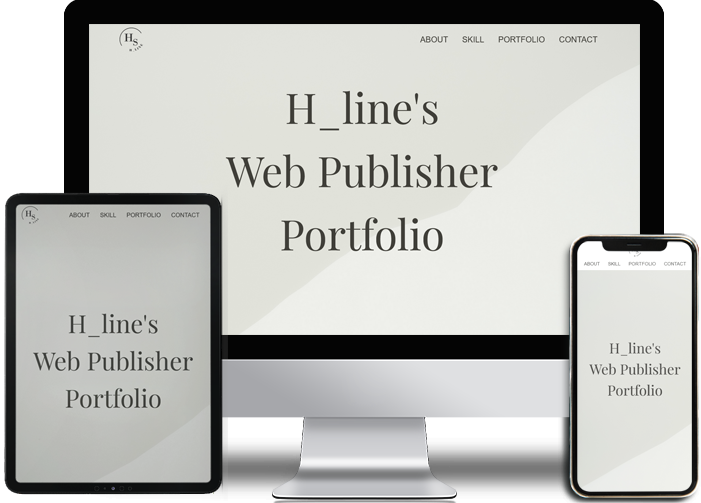
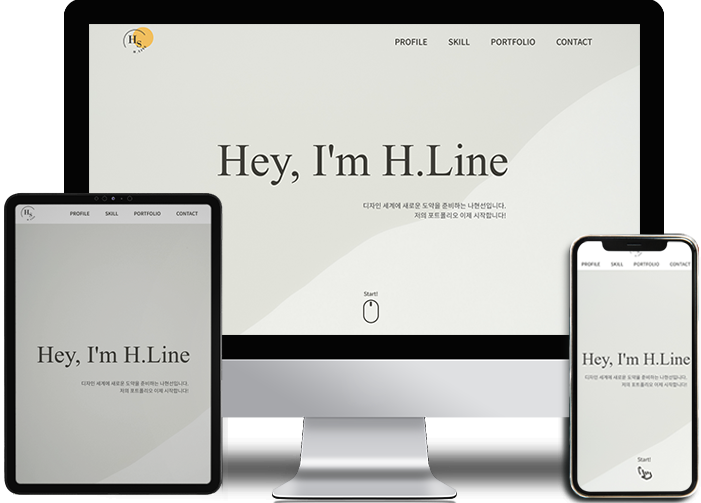
1

diff --git a/index.html b/index.html
@@ -321,7 +321,7 @@
                         <div class="ej">
                             <h3 class="h3">EDUCATION & CAREER</h3>
                             <ul>
-                                <li><a href="https://drive.google.com/drive/folders/1LGJxZQpz41yfpy8YcV8IGbBqt6iMHeF_" target="_blank">수업 참여 자료 보러가기</a></li>
+                                <li><a href="https://drive.google.com/drive/folders/1LGJxZQpz41yfpy8YcV8IGbBqt6iMHeF_" target="_blank">학습 교과목 보기</a></li>
                                 <li>2023.11 ~ 2024.03 <span class="block">이젠 모란 웹디자인 & 퍼블리셔과정 수료</span></li>
                                 <li>2016.07 ~ 2023.08 <span class="block">아름방송 네트워크 근무</span></li>
                                 <li>2014.03 ~ 2017.02 <span class="block">성남테크노과학고등학교 졸업</span><li>
@@ -492,7 +492,7 @@
                             <li>참여도 : 100%</li>
                             <li>페이지 : MAIN</li>
                             <li class="view flex">
-                                <a class="figma" href="" target="_blank">피그마</a>
+                                <a class="figma" href="" target="_blank">프로토타입</a>
                                 <a href="https://github.com/nahyeonsun/personalv2" target="_blank">깃소스</a>
                             </li>
                         </ul>
@@ -553,7 +553,7 @@
                 Copyright ⓒ2023. HYEON SUN Copyright All Rights Reserved.
             </p>
             </div>
-            <a href="" class="top">Top</a>
+            <a href="" class="top hideTop">Top</a>
         </footer>
     </section>
 </body>

diff --git a/css/responsive.css b/css/responsive.css
@@ -13,7 +13,7 @@
     width: 100vw !important;
   }
   section#portfolio .slick-dots{
-    width: 82%;
+    width: 90%;
   }
   section#footer{
     padding: 0 !important;
@@ -59,7 +59,10 @@
     width: 100vw;
   }
   div#title h2{
-    font-size: calc(130px * 0.65);
+    font-size: calc(130px * 0.7);
+  }
+  div#title p{
+    transform: translate(20%, 20px);
   }
   div#title h2 span{
     font-size: calc(70px * 1) !important;
@@ -77,9 +80,6 @@
   section#about .profile{
     column-gap: 20px;
     margin-top: 0;
-  }
-  section#about .profile .left img{
-    width: calc(320px * 0.7);
   }
   section#about .profile .right{
     gap: 20px;
@@ -123,12 +123,12 @@
   font-size: calc(32px * 0.8) !important;
   }
   section#contact .box2 p .mail{
-    left: 30%;
-    top: 24px;
+    /*! left: 30%; */
+    /*! top: 24px; */
   }
   section#contact .box2 p .call{
-    left: 32%;
-    top: 39px;
+    /*! left: 32%; */
+    /*! top: 39px; */
   }
   section#footer .wrap{
     padding: 0;
@@ -193,6 +193,7 @@
   div#title p{
     
   font-size: calc(19px * 0.75);
+  transform: translate(0,10px);
   }
   /*  about  */
   section#about{    

diff --git a/css/title.css b/css/title.css
@@ -14,13 +14,17 @@ div#title{
 }
 div#title div.wrap{
   
+  display: flex;
+  flex-direction: column;
+  justify-content: center;
+  align-items: center;
 } 
 div#title h2{ 
    font-size: 130px;
    color: #403F39;
    font-family: "Playfair Display", serif;
    text-transform: capitalize;
-   transform: translate(90px, -30px) !important;
+   transform: translateY(-30px) !important;
 }
 div#title h2 span.block.active::after{
     display: none;
@@ -29,9 +33,8 @@ div#title p{
   font-size: 19px;
   color: #555;
   transform: translateY(20px);
-  display: flex;
-  justify-content: center;
   text-align: end;
+  transform: translate(50%,20px);
 }
 div#title p span{
   

diff --git a/css/main.css b/css/main.css
@@ -5,6 +5,7 @@ section#about{
   display: flex;
   flex-direction: column;
   background-color: #7d717517;
+  box-sizing: border-box;
 }
 section#about iframe{
 }
@@ -239,7 +240,8 @@ section#skill{
   display: flex;
   flex-direction: column;
   min-height: 700px;
-  padding-top: 85px;
+  padding-top: 50px;
+  box-sizing: border-box;
 }
 section#skill .wrap{
   
@@ -744,7 +746,7 @@ section#portfolio .wrap ul.list li .view a.web:nth-child(1):hover::before{
   background-image: url(../img/explorewhite.png);
 }
 section#portfolio .wrap ul.list li .view a.figma{
-  width: 90px;
+  width: 110px;
 }
 section#portfolio .wrap ul.list li .view a.figma::before{
   content: "";

diff --git a/css/footer.css b/css/footer.css
@@ -28,6 +28,7 @@ footer a.top{
   transition: 1s;
   background: #403f39;
   border-radius: 50%;
+  transition: 0.5s;
 }
 footer a.top::before{
   content: "";
@@ -44,4 +45,5 @@ footer a.top:hover::before{
 }
 .hideTop{
   display: none !important;
+  transition: 0.5s;
 }
